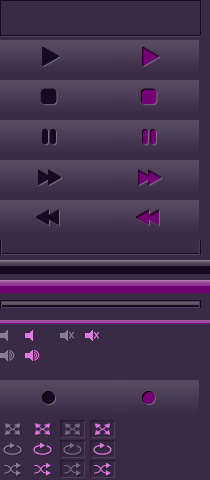
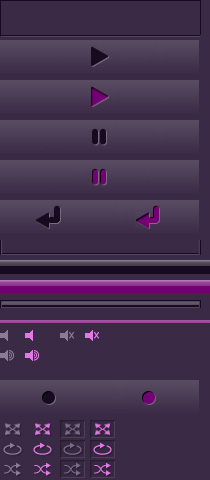
Removed stop button
- Stop button removed from jPlayer skin;
- Play/Pause button now takes the whole player width;
- Moved the enter sprite to jplayer sprite;
- Removed playlist sprites from image and css;
- Escape now quits the editation screen not only from textarea;

diff --git a/MakonFM/root/static/jplayer-skins/jplayer.pink.flag.css b/MakonFM/root/static/jplayer-skins/jplayer.pink.flag.css
@@ -133,7 +133,7 @@ div.jp-interface ul.jp-controls a {
 /* @group single player controls */
 
 div.jp-type-single  .jp-controls li a{
-	width: 99px;
+	width: 198px;
 }
 
 div.jp-type-single  .jp-play {
@@ -141,7 +141,7 @@ div.jp-type-single  .jp-play {
 }
 
 div.jp-type-single  .jp-play:hover {
-	background: url("jplayer.pink.flag.jpg") -100px -40px no-repeat;
+	background: url("jplayer.pink.flag.jpg") 0px -80px no-repeat;
 }
 
 div.jp-type-single  .jp-pause {
@@ -149,64 +149,12 @@ div.jp-type-single  .jp-pause {
 }
 
 div.jp-type-single  .jp-pause:hover {
-	background: url("jplayer.pink.flag.jpg") -100px -120px no-repeat;
-}
-
-div.jp-type-single  .jp-stop {
-	background: url("jplayer.pink.flag.jpg") 0px -80px no-repeat;
-}
-
-div.jp-type-single  .jp-stop:hover {
-	background: url("jplayer.pink.flag.jpg") -100px -80px no-repeat;
+	background: url("jplayer.pink.flag.jpg") 0px -160px no-repeat;
 }
 
 /* @end */
 
 /* @group playlist player controls */
-
-div.jp-type-playlist .jp-controls li a{
-	width: 49px;
-}
-
-div.jp-type-playlist .jp-play {
-	background: url("jplayer.pink.flag.jpg") -24px -40px no-repeat;
-}
-
-div.jp-type-playlist .jp-play:hover {
-	background: url("jplayer.pink.flag.jpg") -124px -40px no-repeat;
-}
-
-div.jp-type-playlist .jp-pause {
-	background: url("jplayer.pink.flag.jpg") -24px -120px no-repeat;
-}
-
-div.jp-type-playlist .jp-pause:hover {
-	background: url("jplayer.pink.flag.jpg") -124px -120px no-repeat;
-}
-
-div.jp-type-playlist .jp-stop {
-	background: url("jplayer.pink.flag.jpg") -24px -80px no-repeat;
-}
-
-div.jp-type-playlist .jp-stop:hover {
-	background: url("jplayer.pink.flag.jpg") -124px -80px no-repeat;
-}
-
-div.jp-type-playlist .jp-previous {
-	background: url("jplayer.pink.flag.jpg") -24px -200px no-repeat;
-}
-
-div.jp-type-playlist .jp-previous:hover {
-	background: url("jplayer.pink.flag.jpg") -124px -200px no-repeat;
-}
-
-div.jp-type-playlist .jp-next {
-	background: url("jplayer.pink.flag.jpg") -24px -160px no-repeat;
-}
-
-div.jp-type-playlist .jp-next:hover {
-	background: url("jplayer.pink.flag.jpg") -124px -160px no-repeat;
-}
 
 /* @end */
 

diff --git a/MakonFM/root/static/makonfm.css b/MakonFM/root/static/makonfm.css
@@ -89,22 +89,22 @@ h1 {
     background: url('/static/jplayer-skins/jplayer.pink.flag.jpg') no-repeat scroll transparent;
 }
 .icn.Play {
-    background-position: 0 -40px;
+    background-position: -47px -40px;
 }
 .icn.Play:hover {
-    background-position: -100px -40px;
+    background-position: -47px -80px;
 }
 .icn.Stop {
-    background-position: 0 -80px;
+    background-position: -47px -120px;
 }
 .icn.Stop:hover {
-    background-position: -100px -80px;
+    background-position: -47px -160px;
 }
 .icn.Save {
-    background-image: url('/static/images/sprite.jpg');
+    background-position: 0 -200px;
 }
 .icn.Save:hover {
-    background-position: -100px 0;
+    background-position: -100px -200px;
 }
 .small-play-button {
     display: inline-block;

diff --git a/MakonFM/root/static/makonfm.js b/MakonFM/root/static/makonfm.js
@@ -883,7 +883,7 @@ $('.subtitles').on({
         MakonFM.edited_subtitles($sel);
     }
 });
-$('.js-subedit').on({
+$(document).on({
     keyup: function(evt) {
         switch (evt.keyCode) {
             case 27:
@@ -907,10 +907,6 @@ $('.play.Button').on('click', function(evt) {
 $('.pause.Button').on('click', function(evt) {
     if (evt.button != 0) return;
     MakonFM.requested_position(MakonFM.jp.status.currentTime);
-});
-$('.stop.Button').on('click', function(evt) {
-    if (evt.button != 0) return;
-    MakonFM.requested_position(0);
 });
 
 var Word = new function() {
